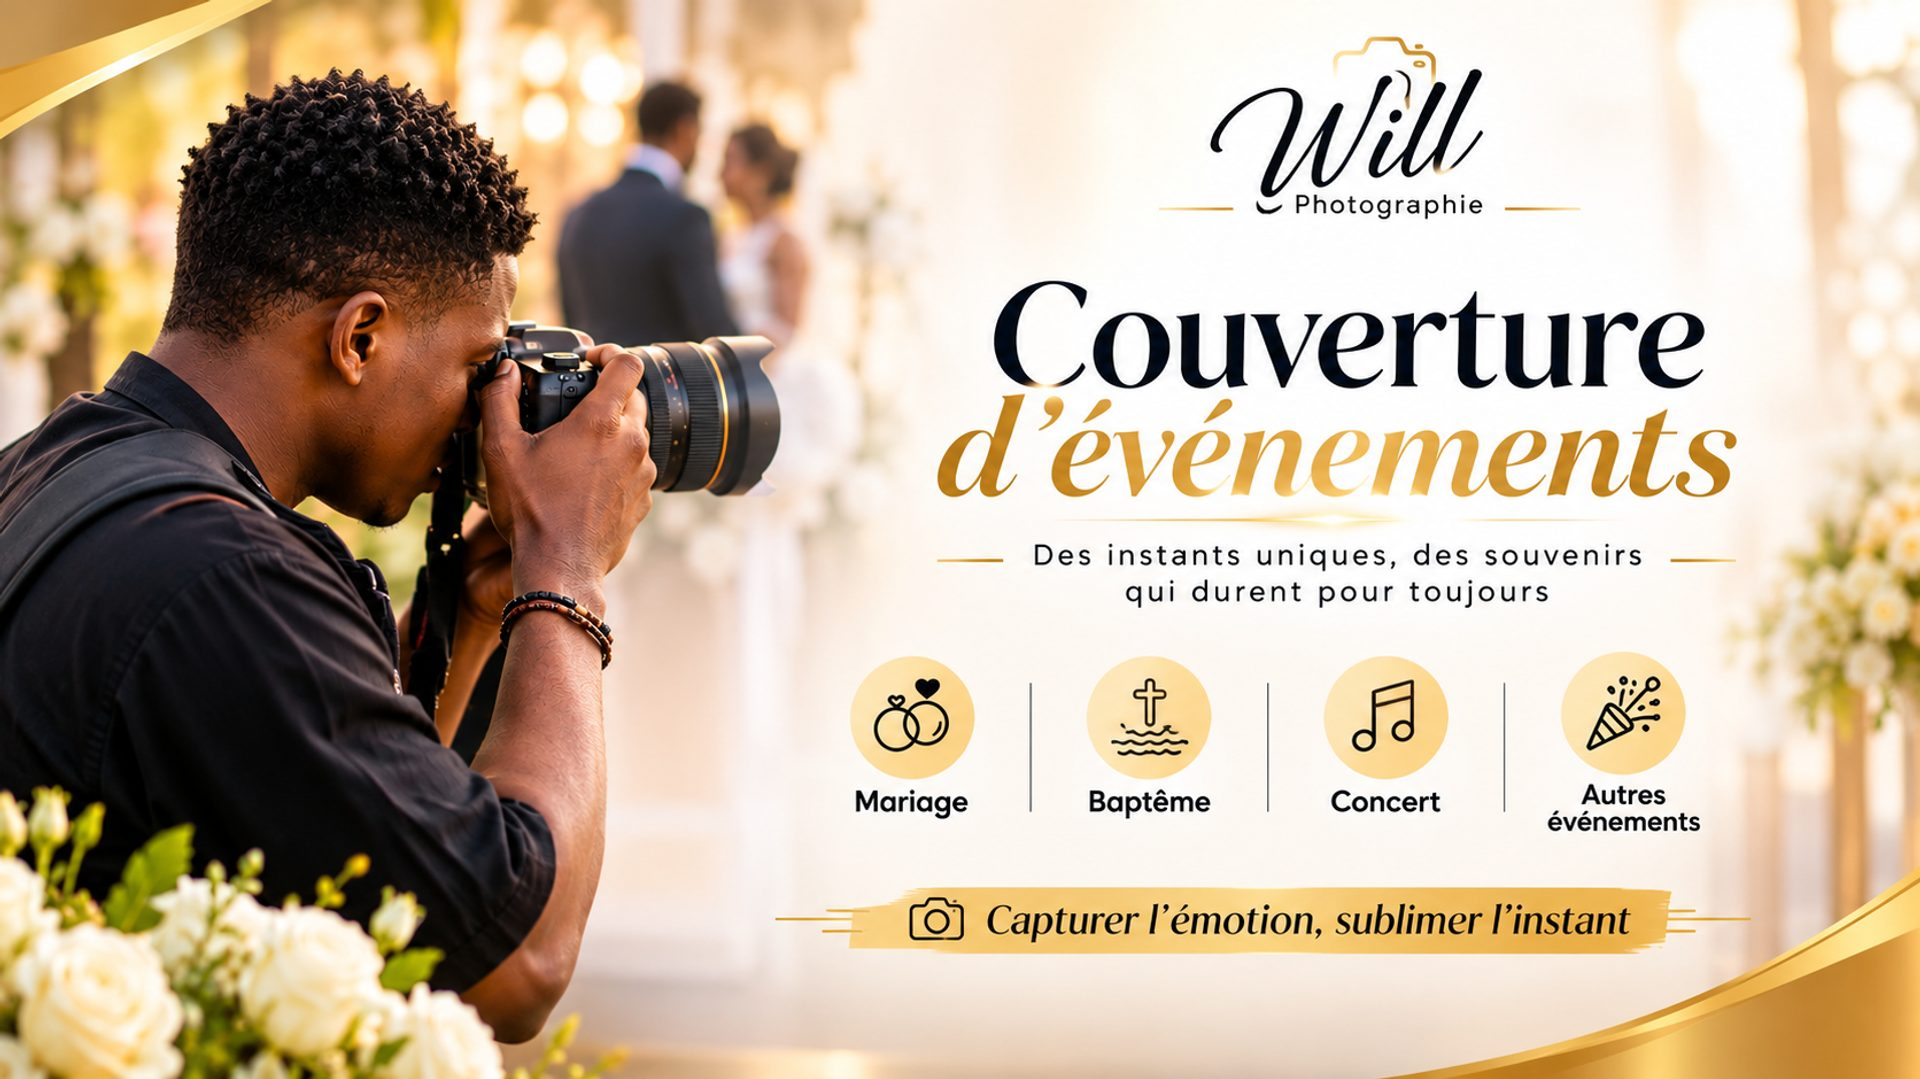
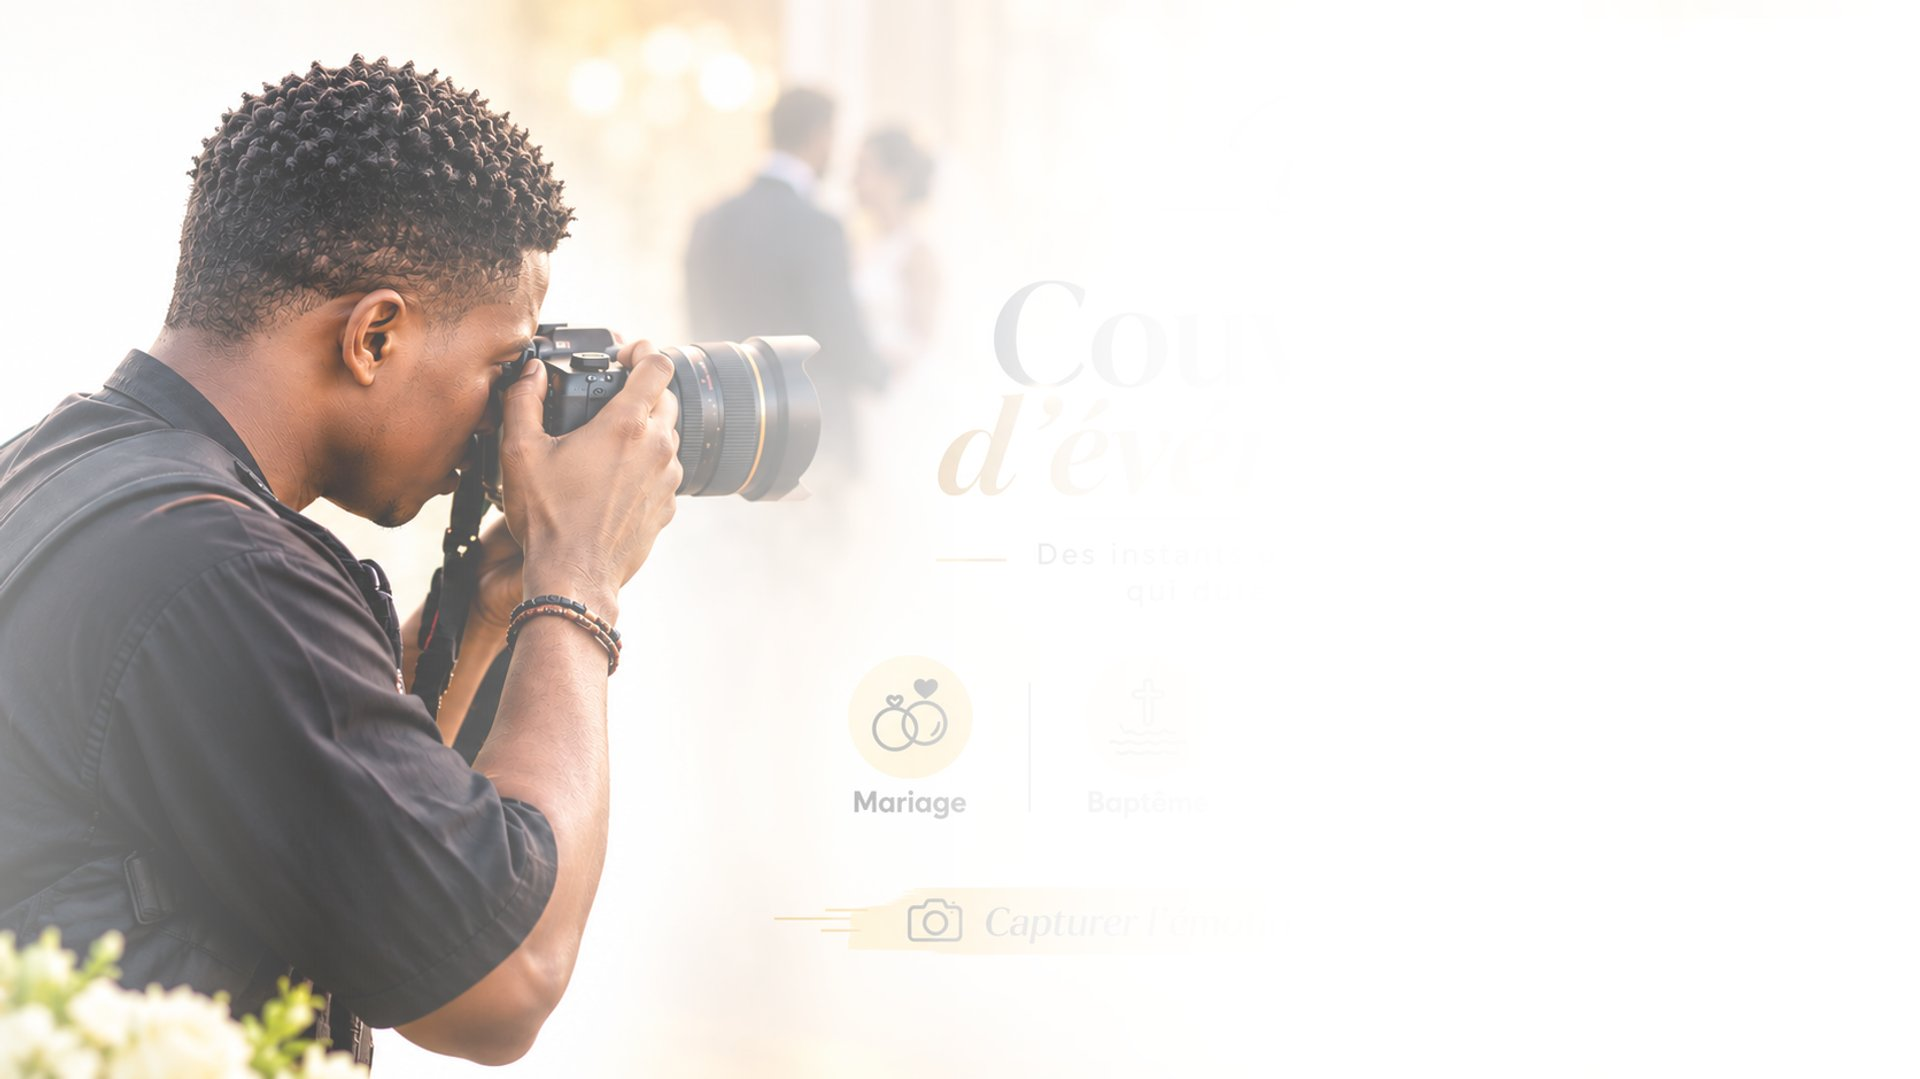
Remplace la photo du héro et repasse à un voile sombre
Nouvelle photo (déjà très claire, texte de marque à peine visible) : le
dégradé blanc précédent y ferait double emploi. Voile noir uniforme (55%)
à la place, texte repassé en blanc — photographe net et bien visible,
titre/sous-titre/boutons parfaitement lisibles.

Claude-Session: https://claude.ai/code/session_016NucvsdNaACJ62hSAK6e52

diff --git a/src/components/VendorsMarketplacePage.tsx b/src/components/VendorsMarketplacePage.tsx
@@ -63,8 +63,9 @@ export default function VendorsMarketplacePage({ onViewVendor, onBecomeVendor }:
   return (
     <div id="vendors-marketplace-page" className="space-y-6 py-2">
       {/* Section héro : point d'entrée du marché. Photo plein cadre, nette (pas de flou) —
-          un dégradé blanc, plus marqué derrière le texte qu'au niveau de la photo, garde
-          titre, sous-titre et boutons lisibles sans étouffer l'image. */}
+          un voile sombre uniforme, plutôt qu'un dégradé blanc, garde titre, sous-titre et
+          boutons lisibles sur cette photo déjà très claire (fond blanc, photographe net à
+          gauche). */}
       <div className="relative overflow-hidden rounded-3xl shadow-xl" id="vendors-hero">
         <img
           src="/vendors-hero.jpg"
@@ -72,23 +73,23 @@ export default function VendorsMarketplacePage({ onViewVendor, onBecomeVendor }:
           aria-hidden="true"
           className="absolute inset-0 h-full w-full object-cover"
         />
-        <div className="absolute inset-0 bg-gradient-to-b from-white/85 via-white/70 to-white/85" aria-hidden="true" />
+        <div className="absolute inset-0 bg-black/55" aria-hidden="true" />
         <div className="relative px-6 py-12 sm:px-10 sm:py-16">
           <div className="mx-auto max-w-2xl text-center">
-            <h1 className="text-3xl font-black tracking-tight text-gray-900 sm:text-4xl">
+            <h1 className="text-3xl font-black tracking-tight text-white sm:text-4xl">
               Trouvez le prestataire idéal pour votre événement
             </h1>
-            <p className="mx-auto mt-3 max-w-xl text-sm leading-relaxed text-gray-700 sm:text-base">
+            <p className="mx-auto mt-3 max-w-xl text-sm leading-relaxed text-gray-100 sm:text-base">
               Photographes, régies son et lumière, MC, traiteurs, décorateurs... des prestataires vérifiés par
               l'équipe ClicBillet, prêts à recevoir votre demande de devis.
             </p>
 
             {publicStats && publicStats.activeVendors > 0 && (
-              <p className="mx-auto mt-4 flex flex-wrap items-center justify-center gap-x-2 gap-y-1 text-xs font-bold text-orange-700">
+              <p className="mx-auto mt-4 flex flex-wrap items-center justify-center gap-x-2 gap-y-1 text-xs font-bold text-gray-200">
                 <span>{publicStats.activeVendors} prestataire{publicStats.activeVendors > 1 ? "s" : ""} déjà inscrit{publicStats.activeVendors > 1 ? "s" : ""}</span>
                 {publicStats.leadsLast30Days > 0 && (
                   <>
-                    <span className="text-orange-300">·</span>
+                    <span className="text-gray-400">·</span>
                     <span>{publicStats.leadsLast30Days} devis envoyé{publicStats.leadsLast30Days > 1 ? "s" : ""} ce mois-ci</span>
                   </>
                 )}
